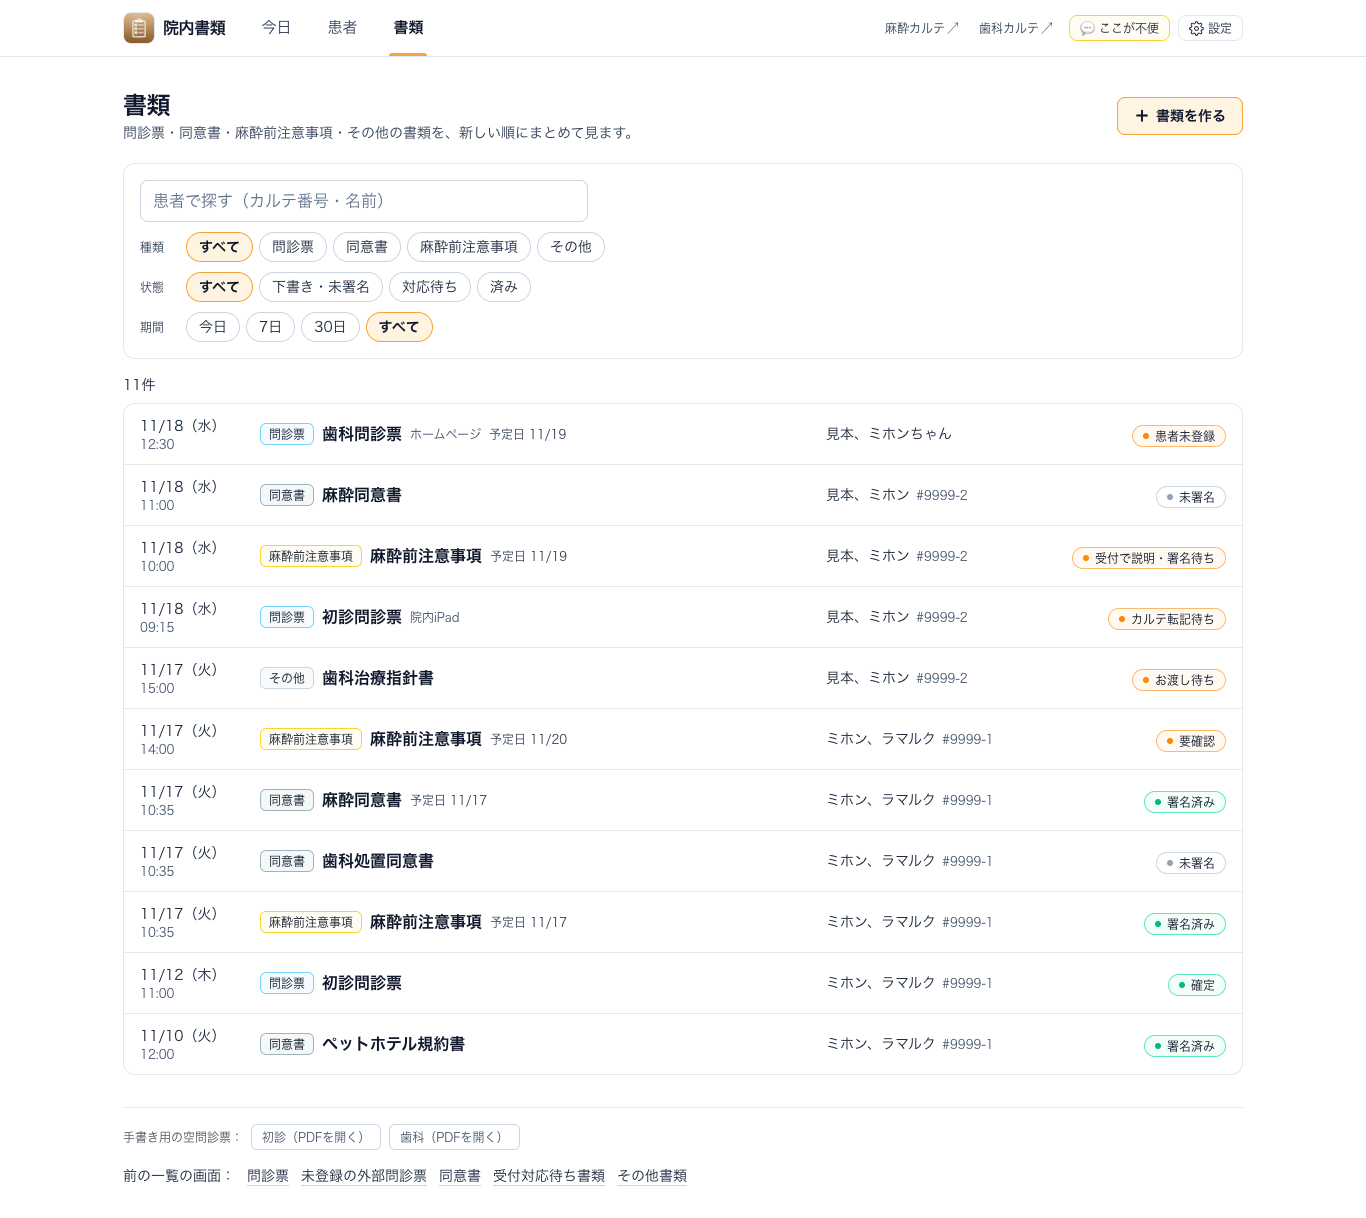
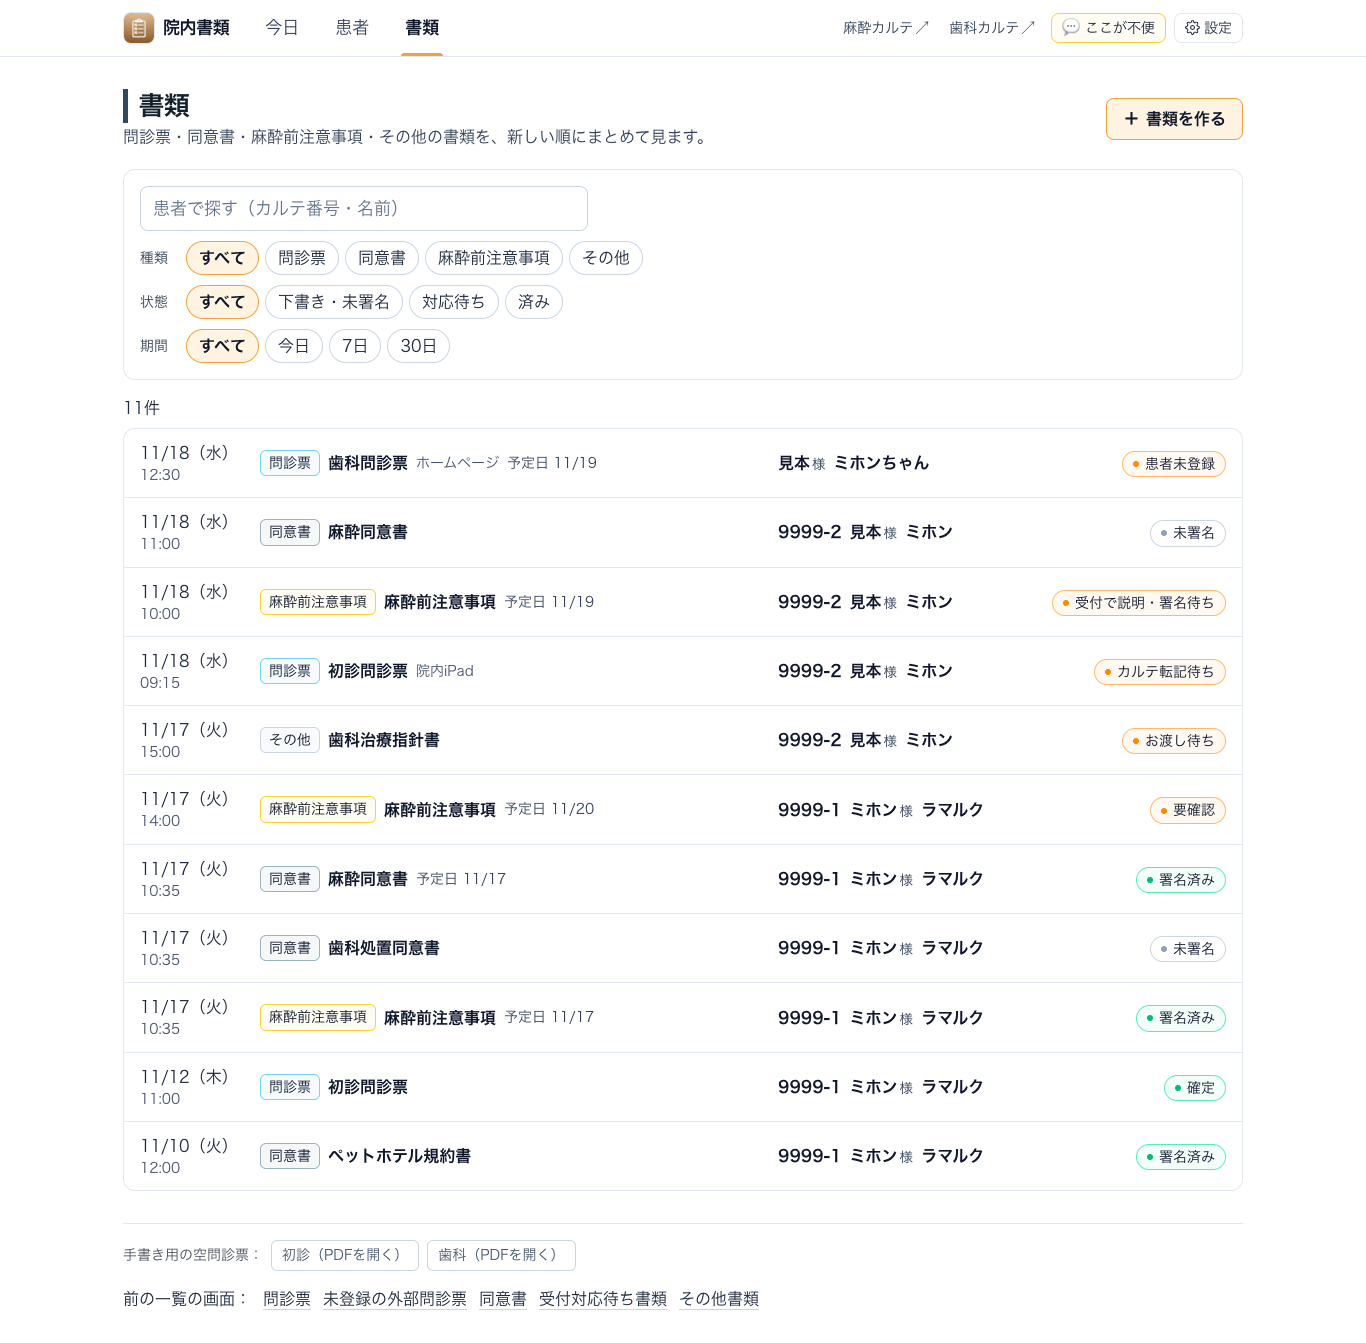
院内書類のガイド：患者の並び（カルテ番号・飼い主名・ペット名・太字）と文字を大きくした後の写真に差し替え

diff --git a/vet-link.html b/vet-link.html
@@ -188,7 +188,7 @@
 <h2>5. 「患者」タブ</h2>
 <div class="card">
 <h3>5-1. 患者を探す・登録する</h3>
-<p style="margin:6px 0 0">カルテ番号・飼主名・動物名・電話番号で探せます。行を押すと患者ページが開きます。</p>
+<p style="margin:6px 0 0">カルテ番号・飼い主名・ペット名・電話番号で探せます。一覧は<b>カルテ番号・飼い主名・ペット名</b>の順に太字で並びます。行を押すと患者ページが開きます。</p>
 <img class="shot wide" src="vet-link-patients.png" alt="患者の一覧">
 <div class="cap">▲ 患者（架空データ）</div>
 <ul>
@@ -196,7 +196,7 @@
 <li>アーミックスに無い子・仮の子は<b>仮患者</b>として登録し、あとで正式なカルテ番号にひも付けできます。</li>
 </ul>
 <h3>5-2. 患者ページ</h3>
-<p style="margin:6px 0 0">その患者の<b>書類が種類を問わず新しい順に1本の一覧</b>で出ます（問診票・院内iPad／Web問診・同意書・麻酔前注意事項・歯科治療指針書）。行を押すとその書類が開きます。患者の情報は右の小さな枠（スマホでは下）にあります。</p>
+<p style="margin:6px 0 0">いちばん上に<b>カルテ番号・飼い主名・ペット名</b>が大きく太字で出ます。その下に、その患者の<b>書類が種類を問わず新しい順に1本の一覧</b>で出ます（問診票・院内iPad／Web問診・同意書・麻酔前注意事項・歯科治療指針書）。行を押すとその書類が開きます。患者の情報は右の小さな枠（スマホでは下）にあります。</p>
 <img class="shot wide" src="vet-link-patient.png" alt="患者ページ">
 <div class="cap">▲ 患者ページ（架空データ）</div>
 <table>
